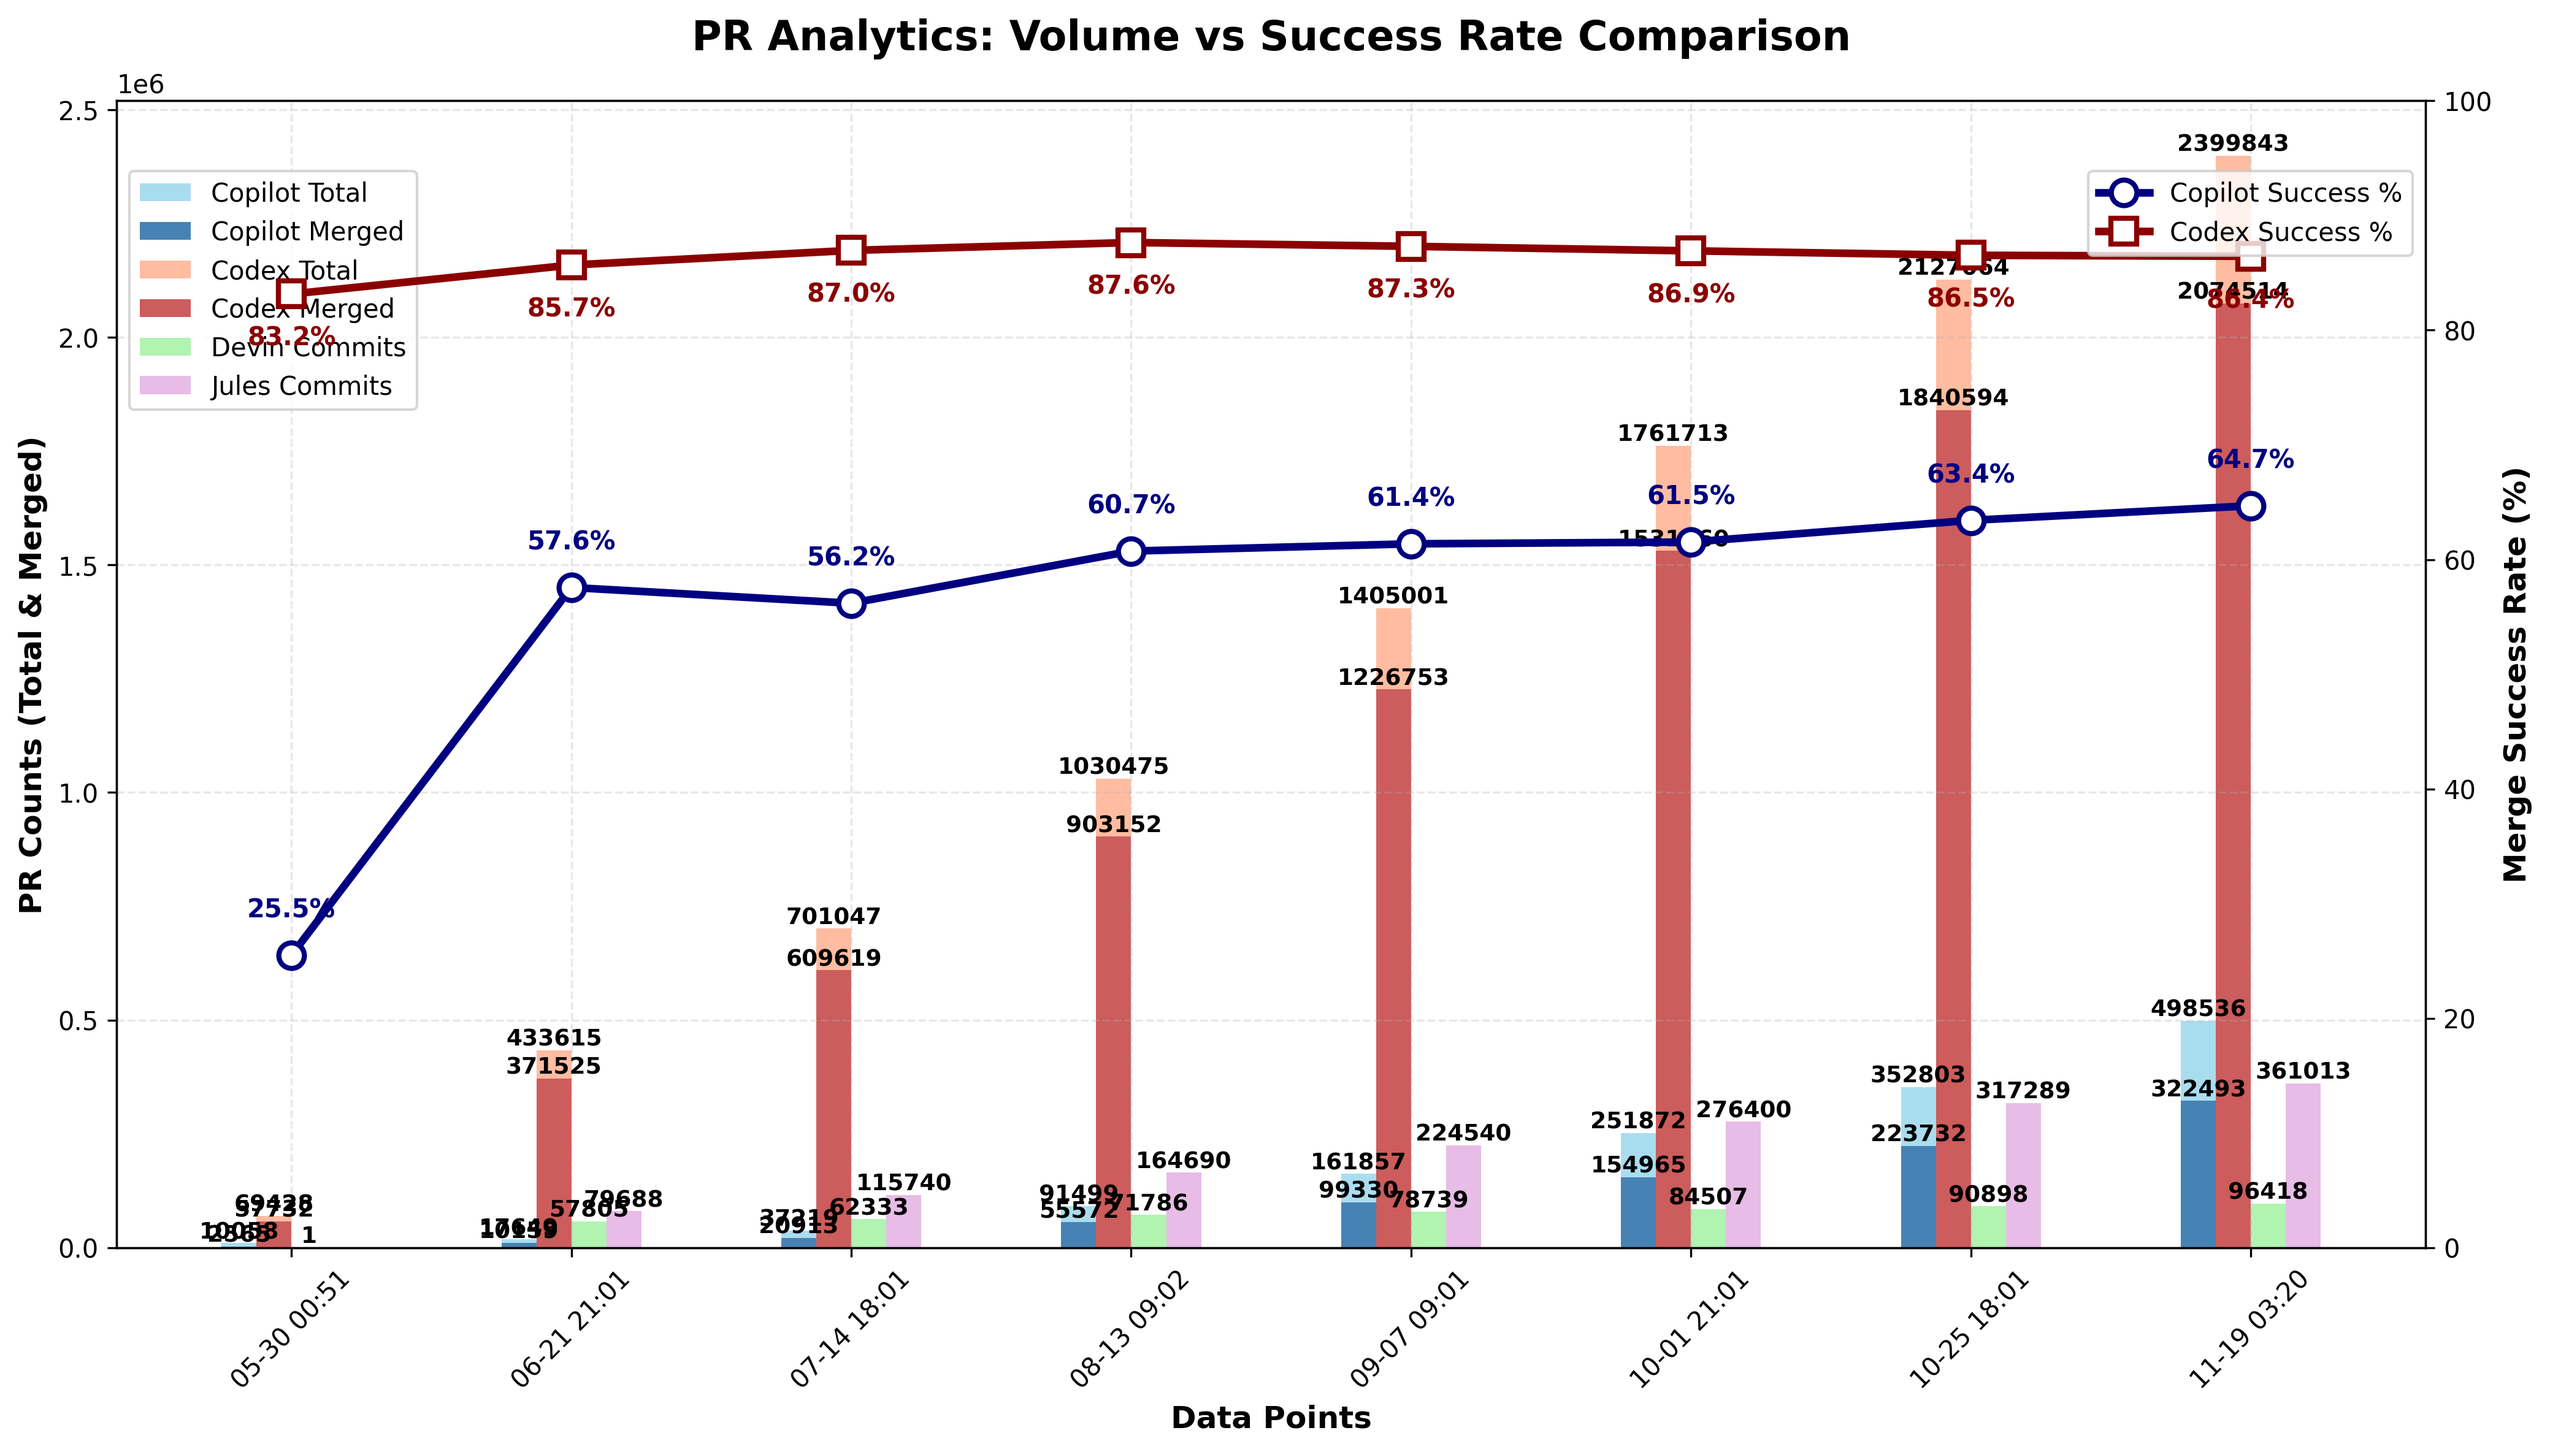
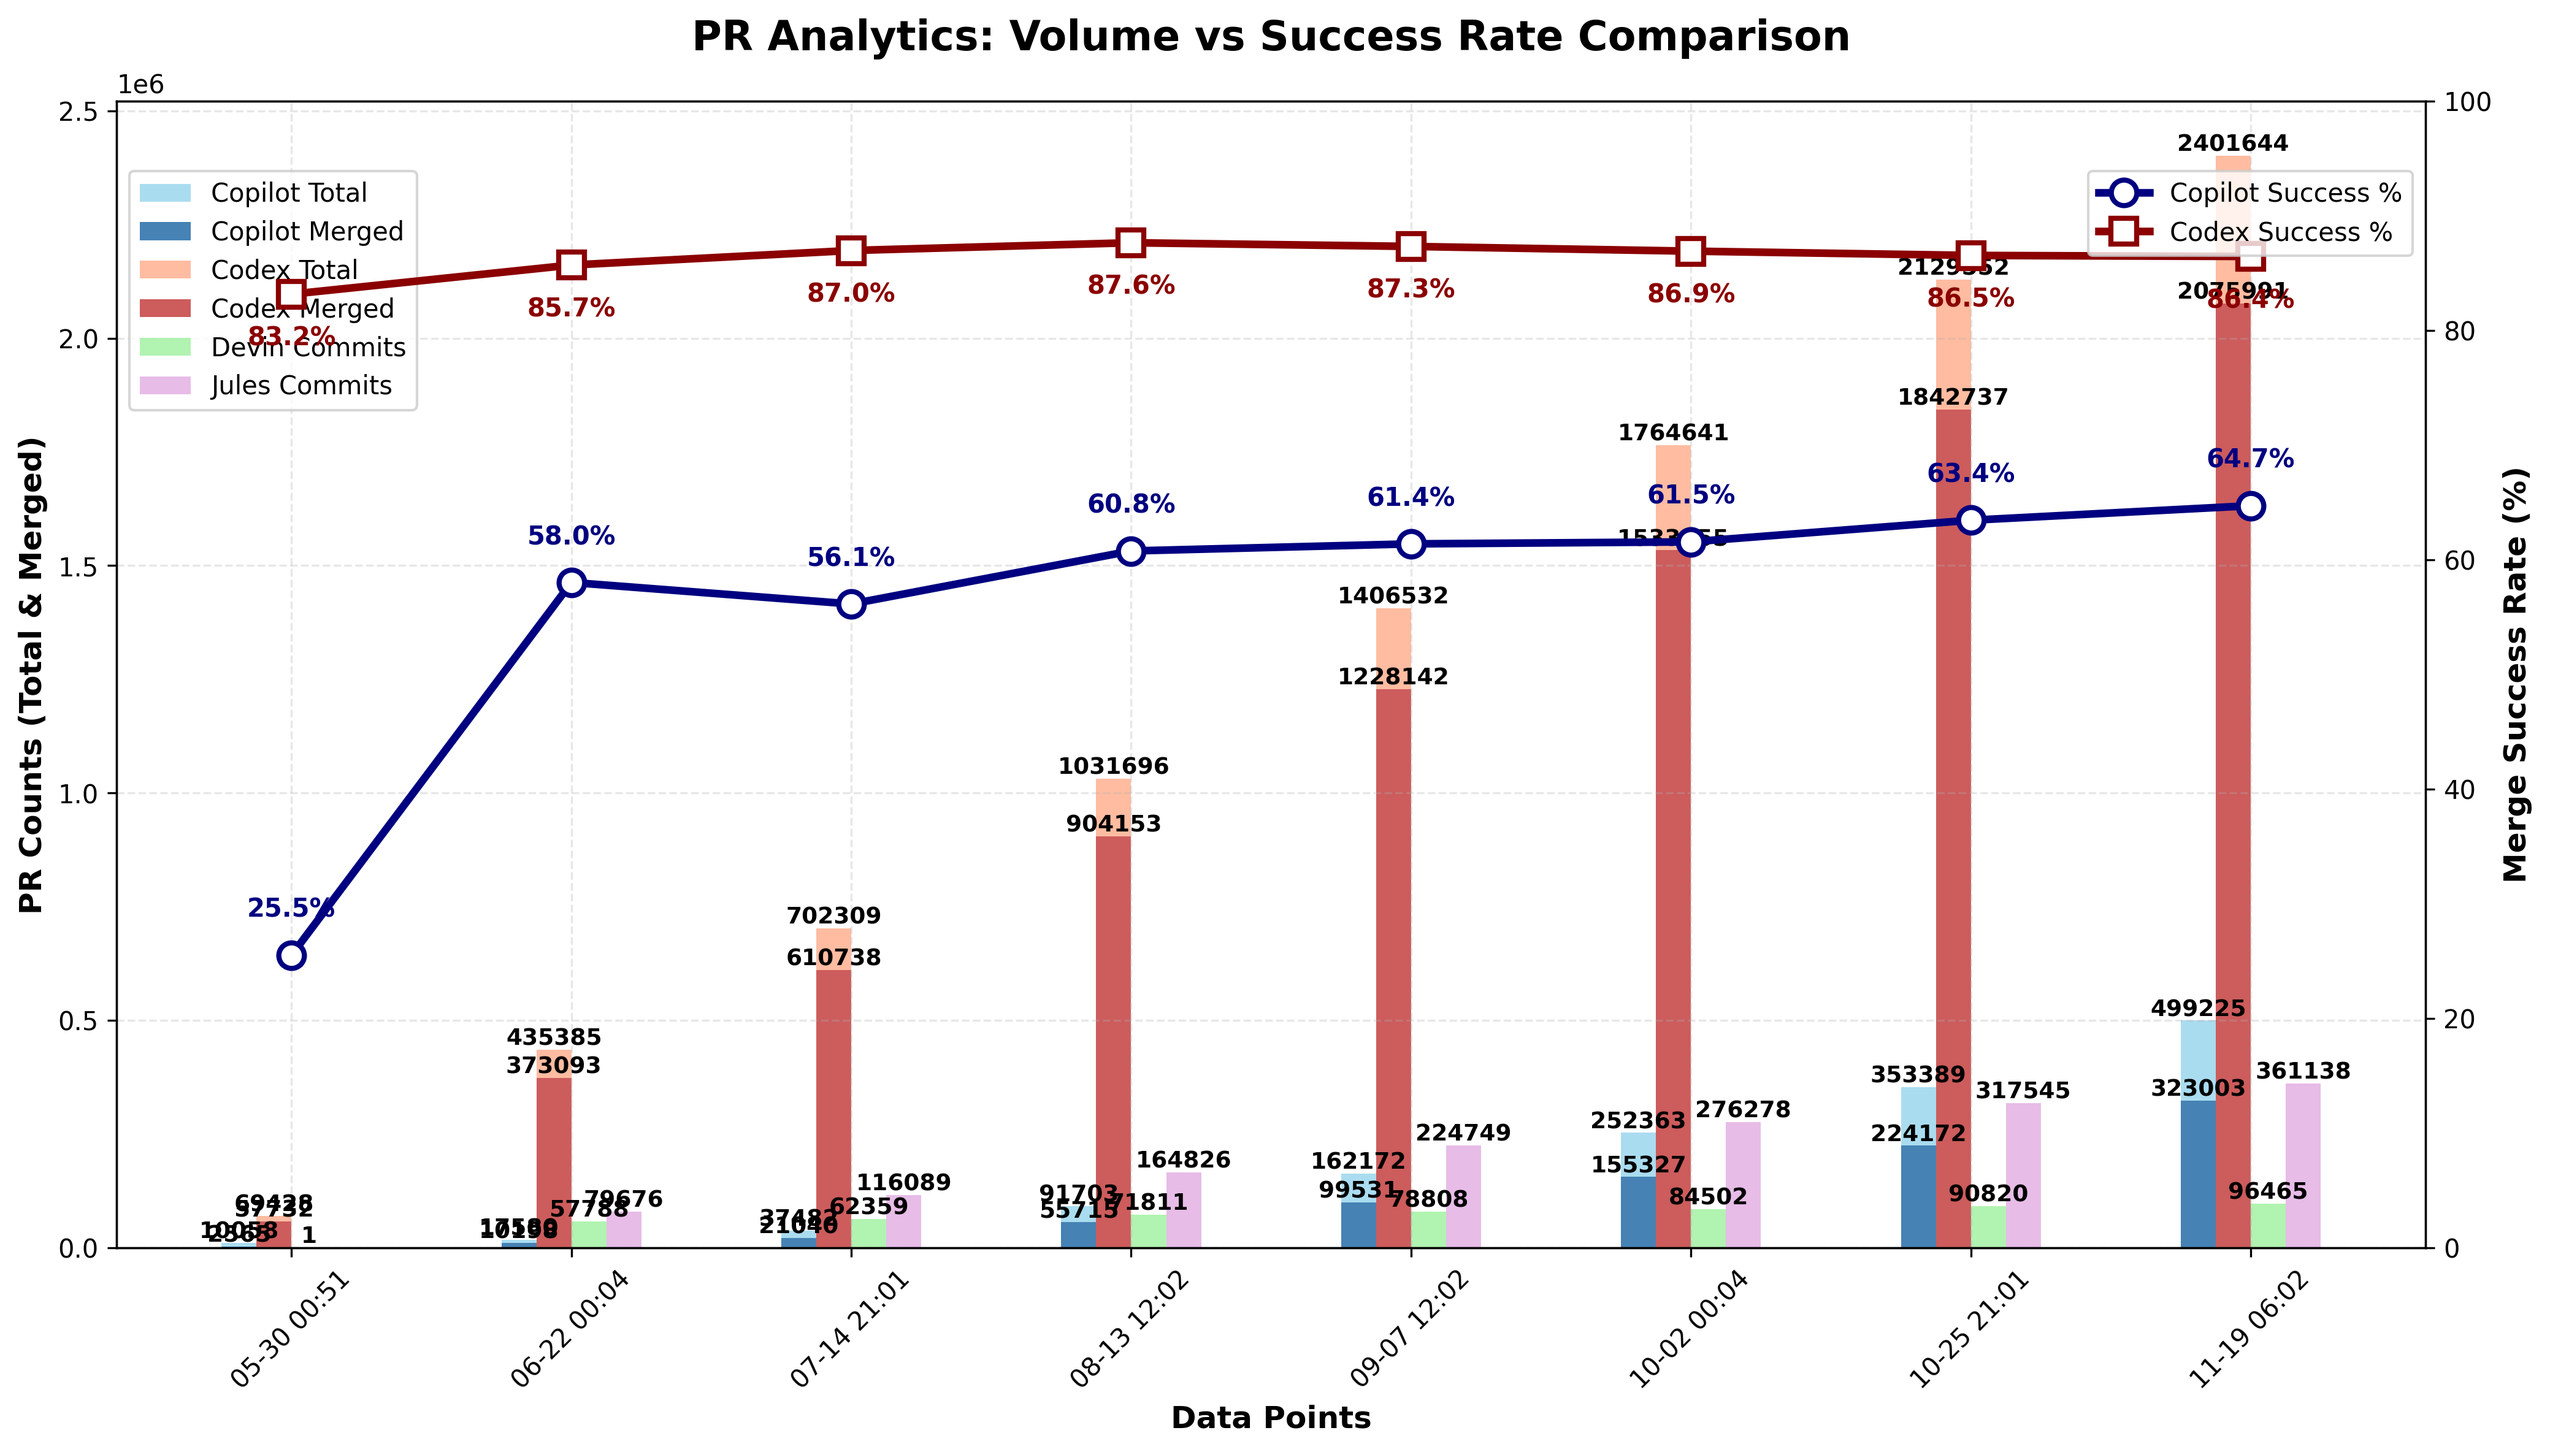
chore: update PR‑approval chart

diff --git a/docs/index.html b/docs/index.html
@@ -1328,6 +1328,7 @@
                         <td>N/A</td>
                         <td>N/A</td>
                         <td>N/A</td>
+                        <td>N/A</td>
                     </tr>
                     <tr>
                         <td>Codex</td>
@@ -2614,27 +2615,28 @@
                         <td>N/A</td>
                         <td>N/A</td>
                         <td>N/A</td>
+                        <td>N/A</td>
                     </tr>
                 <tr>
                         <td>Devin</td>
                         <td>N/A</td>
                         <td>N/A</td>
                         <td>N/A</td>
-                        <td>96,418</td>
+                        <td>96,465</td>
                     </tr>
                     <tr>
                         <td>Jules</td>
                         <td>N/A</td>
                         <td>N/A</td>
                         <td>N/A</td>
-                        <td>361,013</td>
+                        <td>361,138</td>
                     </tr>
                     </tbody>
             </table>
         </section>
 
         <footer>
-            <p>Last updated: <span id="last-updated">November 19, 2025 03:21 UTC</span></p>
+            <p>Last updated: <span id="last-updated">November 19, 2025 06:02 UTC</span></p>
             <p><a href="https://github.com/aavetis/ai-pr-watcher">View on GitHub</a></p>
         </footer>
     </div>

diff --git a/README.md b/README.md
@@ -19,7 +19,7 @@ Explore the GitHub search queries used:
 
 | Service | Total PRs | Merged PRs | Merge Rate | Total Commits |
 | ------- | --------- | ---------- | ---------- | ------------- |
-| Copilot | 498,536 | 322,493 | 64.69% | N/A           |
-| Codex   | 2,399,843 | 2,074,514 | 86.44% | N/A           |
-| Devin   | N/A       | N/A        | N/A        | 96,418 |
-| Jules   | N/A       | N/A        | N/A        | 361,013 |
+| Copilot | 499,225 | 323,003 | 64.70% | N/A           |
+| Codex   | 2,401,644 | 2,075,991 | 86.44% | N/A           |
+| Devin   | N/A       | N/A        | N/A        | 96,465 |
+| Jules   | N/A       | N/A        | N/A        | 361,138 |
